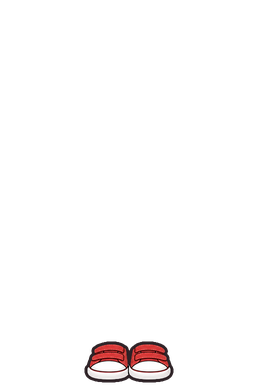
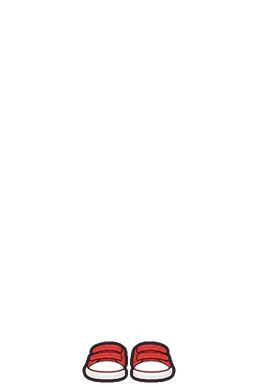
아바타: 눈 흰자 하얗게 (감은 눈·점 눈 빼고), 신발 두 짝 사이 띄우고 바깥으로 넓혀 종아리 가림 / 학생 과제·교사 일지 백업도 점선 파일 상자
Claude-Session: https://claude.ai/code/session_015VxnKS3baGbwJXJNNp74ix

Changed region(s): [[0.3101, 0.8705, 0.6822, 0.9948]]

diff --git a/journal.html b/journal.html
@@ -37,6 +37,11 @@
   header .dday .dd-note { font-size: 11px; color: #b5aaa0; }
   header .dday:hover .dd { box-shadow: inset 0 0 0 1.5px var(--accent); } header .dday:empty::after, header .dday .dd-empty { padding: 4px 10px; }
   header .today { margin-left: 8px; padding-left: 12px; border-left: 1px solid var(--line); font-size: 13px; }
+  /* 파일 넣는 칸: 점선 상자 + 구름 화살표 (끌어다 놓아도 된다는 표시) */
+  .dz { display: flex; flex-direction: column; align-items: center; gap: 4px; width: 100%; box-sizing: border-box; padding: 18px 16px; border: 2px dashed #c9c2b8 !important; border-radius: 14px !important; background: #fcfaf7 !important; font: inherit; color: #333; cursor: pointer; }
+  .dz:hover, .dz.drop-on, .drop-on > .dz { border-color: #3b82f6 !important; background: #f0f6ff !important; } .dz svg { width: 36px; height: 36px; fill: none; stroke: currentColor; stroke-width: 1.6; stroke-linecap: round; stroke-linejoin: round; }
+  .dz b { font-weight: 500; font-size: 15px; } .dz u { color: #2f6fd6; text-decoration: none; font-weight: 600; font-size: 15px; } .dz small { color: #868e96; font-size: 12px; }
+  .dzw { margin-top: 8px; }
   .ddl { display: grid; gap: 6px; } .ddl .row { display: flex; gap: 6px; align-items: center; } .ddl .row > * { min-width: 0; } .ddl .row .dbox { flex: none; width: 140px; } .ddl .dtext.bad { border-color: #e03131; color: #e03131; }
   .pop .tip { margin: 0 0 4px; font-size: 12px; color: var(--muted); line-height: 1.5; } .ddl .grow { flex: 1; width: 0; } .ddl .row .x { flex: none; }
   header .jset { border: 0; background: none; padding: 5px; border-radius: 8px; color: var(--muted); display: grid; place-items: center; margin-left: 4px; } header .jset:hover { background: var(--soft); color: var(--accent); }
@@ -342,6 +347,7 @@ function load() {
   try { const old = JSON.parse(localStorage.getItem("local-journal")); if (old) { J.info = { ...old.info, ...J.info }; J.att = { ...old.att, ...J.att }; localStorage.setItem("journal", JSON.stringify(J)); localStorage.removeItem("local-journal"); } } catch (e) {} // 예전: 이 컴퓨터에만 두던 학생 정보·출결 → 일지로
   J.recs.forEach(r => { if (!r.ps) { r.ps = r.p ? [r.p] : []; delete r.p; } }); // 예전: 학생 한 명
 }
+function dzBtn(go, kinds) { const b = el("button", { type: "button", class: "dz", onclick: go }, el("b", {}, "여기로 파일을 끌어다 놓거나"), el("u", {}, "눌러서 파일 고르기"), el("small", {}, kinds)); b.insertAdjacentHTML("afterbegin", '<svg viewBox="0 0 24 24" aria-hidden="true"><path d="M7 18a4.5 4.5 0 0 1-.6-9A6 6 0 0 1 18 8a4.5 4.5 0 0 1-.5 10"/><path d="M12 20v-9M8.5 14 12 10.5l3.5 3.5"/></svg>'); return b; } // 파일 넣는 점선 상자
 function store() { try { localStorage.setItem("journal", JSON.stringify(J)); localStorage.setItem("sync-dirty", "1"); } catch (e) { ask("저장할 자리가 모자라요.", "확인", null); } }
 const uid = () => Date.now().toString(36) + Math.random().toString(36).slice(2, 6);
 function ask(text, ok = "확인", cancel = "취소", near = null) { // 창 안 팝업. near(누른 버튼)가 있으면 그 옆에 작게
@@ -783,7 +789,7 @@ function jrSettings(anchor) {
       grp("상담 방법", words(ways, L => J.ways = L, "대면, 전화, 문자"))],
     doc: [grp("출결 필요 서류", el("p", { class: "tip" }, "출결을 적을 때 종류 + 분류에 맞는 서류가 '필요'로 채워져요. 서류는 쉼표(,)로 나눠요. 비워 두면 필요 서류 없음."), docRules)],
     bak: [grp("백업", el("p", { class: "tip" }, "일지 전체를 파일로 내보내 보관하거나 다른 컴퓨터에서 불러와요. 읽거나 인쇄하려면 각 탭의 '출력'에서 PDF로 저장해요."),
-      el("div", { class: "row" }, el("button", { type: "button", onclick: backup }, "파일로 내보내기"), el("button", { type: "button", onclick: () => file.click() }, "파일에서 불러오기"), file))],
+      el("div", { class: "row" }, el("button", { type: "button", onclick: backup }, "파일로 내보내기")), el("div", { class: "dzw" }, dzBtn(() => file.click(), "교사 일지 백업 파일 (.json)"), file))],
   };
   const body = el("div", { class: "spane" }), tabs = el("div", { class: "stabs" });
   const show = k => { setTab = k; tabs.querySelectorAll("button").forEach(x => x.classList.toggle("on", x.dataset.k === k)); body.replaceChildren(...panes[k]); };

diff --git a/student.html b/student.html
@@ -76,6 +76,10 @@
   .tp .r small { color: var(--muted); font-size: 13px; } .tp .r .t { color: #1971c2; } .tp .r .t::before { content: "선생님의 한마디 "; font-weight: 700; } .tp .r .my { overflow: hidden; display: -webkit-box; -webkit-line-clamp: 2; -webkit-box-orient: vertical; } /* 긴 글은 두 줄까지만 (누르면 다 보임) */
   .tp > button.main { justify-self: end; font-size: 19px; } .tp .none { margin: 0; color: var(--muted); } .tp .q { margin: 0; font-size: 22px; font-weight: 700; line-height: 1.4; } .tp .q + .when { margin-top: -6px; }
   .spark { width: 1.45em; height: 1.45em; vertical-align: -.3em; margin-right: 3px; fill: #ffd60a; stroke: #222; stroke-width: 1.4; stroke-linejoin: round; overflow: visible; } /* 꾸미기: 노란 반짝이 */
+  /* 파일 넣는 칸: 점선 상자 + 구름 화살표 (끌어다 놓아도 된다는 표시) */
+  .dz { display: flex; flex-direction: column; align-items: center; gap: 4px; width: 100%; box-sizing: border-box; padding: 18px 16px; border: 2px dashed #c9c2b8 !important; border-radius: 14px !important; background: #fcfaf7 !important; font: inherit; color: #333; cursor: pointer; }
+  .dz:hover, .dz.drop-on, .drop-on > .dz { border-color: #3b82f6 !important; background: #f0f6ff !important; } .dz svg { width: 36px; height: 36px; fill: none; stroke: currentColor; stroke-width: 1.6; stroke-linecap: round; stroke-linejoin: round; }
+  .dz b { font-weight: 500; font-size: 15px; } .dz u { color: #2f6fd6; text-decoration: none; font-weight: 600; font-size: 15px; } .dz small { color: #868e96; font-size: 12px; }
   .nb { background: #2f4a3a; color: #f8f9f0; border: 6px solid #8a6a4a; border-radius: 16px; padding: 14px 20px 16px; margin-bottom: 16px; box-shadow: 0 2px 10px rgba(60, 40, 20, .1); }
   .nb b { display: block; font-size: 17px; color: #ffe066; } .nb-h { display: flex; align-items: center; gap: 6px; margin-bottom: 6px; }
   .nb-h button { background: none; border: 0; color: #ffe066; font-size: 14px; padding: 2px 6px; cursor: pointer; } .nb-h button:disabled { opacity: .25; cursor: default; } .nb-h #nb-next { margin-right: auto; } .nb a { color: #a5d8ff; } .nb #nb-l p { margin: 2px 0; font-size: 21px; line-height: 1.5; white-space: pre-wrap; word-break: break-word; }
@@ -298,7 +302,7 @@ function hwDraw() {
     const go = el("button", { class: "main", onclick: () => hwSend(x.id, go) }, sent(s) ? "고친 것 내기" : "선생님께 내기");
     me = [text, cnt, el("div", { class: "atts" }, ...dr.files.map((f, i) => el("div", { class: "th" }, isImg(f) ? el("img", { src: f.file, alt: "" }) : el("span", {}, "📄 " + (f.fname || "파일")),
         el("button", { class: "x", title: "빼기", "aria-label": "빼기", onclick: () => { dr.files.splice(i, 1); hwDraw(); } }, "✕"))),
-        el("button", { class: "add", onclick: () => file.click() }, "＋", el("small", {}, "사진·파일")), file),
+        ), el("div", {}, dzBtn(() => file.click(), "사진 · 한글 · PDF · 파일"), file),
       el("div", { class: "row" }, go, sent(s) ? el("button", { onclick: () => { hwDraft[x.id] = null; hwDraw(); } }, "취소") : null)];
   }
   // 선생님의 한마디: 선생님이 남긴 말이 쌓임 (학생은 읽기만)
@@ -352,6 +356,7 @@ function ntListen(l) {
 }
 // ───── 📋 알림장: 선생님 칠판 알림장 (classes/{반 코드}/notice/board = { day, lines }). 과제 화면 맨 위에
 let nbV = null, nbLog = {}, nbAt = null; // nbV: 오늘 칠판(notice/board), nbLog: 지난 알림장 { 날짜: [줄] } (notice/log), nbAt: 보고 있는 날짜 (null = 맨 최근)
+function dzBtn(go, kinds) { const b = el("button", { class: "dz", onclick: go }, el("b", {}, "여기로 파일을 끌어다 놓거나"), el("u", {}, "눌러서 파일 고르기"), el("small", {}, kinds)); b.insertAdjacentHTML("afterbegin", '<svg viewBox="0 0 24 24" aria-hidden="true"><path d="M7 18a4.5 4.5 0 0 1-.6-9A6 6 0 0 1 18 8a4.5 4.5 0 0 1-.5 10"/><path d="M12 20v-9M8.5 14 12 10.5l3.5 3.5"/></svg>'); return b; } // 파일 넣는 점선 상자
 function nbDraw() { // 오늘 알림장 (없으면 가장 최근 것). ◀ ▶로 지난 알림장
   const td = new Date().toLocaleDateString("sv-SE"), L = { ...nbLog, ...(nbV?.day === td && nbV.lines?.length ? { [td]: nbV.lines } : {}) };
   const days = Object.keys(L).filter(d => d <= td && L[d]?.length).sort(), i = days.includes(nbAt) ? days.indexOf(nbAt) : days.length - 1;

diff --git a/av/eyewhite.py b/av/eyewhite.py
@@ -1,0 +1,18 @@
+# 눈 흰자: 눈마다(왼·오) 가장 큰 덩어리(속눈썹+눈동자)를 볼록하게 감싼 안쪽 빈 곳을 흰색으로 (눈썹은 따로 떨어져 있어서 빠짐)
+import sys, numpy as np; from PIL import Image; from scipy import ndimage
+from scipy.spatial import ConvexHull; from PIL import ImageDraw
+def convex_hull_image(m):
+  ys, xs = np.nonzero(m); p = np.c_[xs, ys]; h = ConvexHull(p); c = Image.new('L', m.shape[::-1]); ImageDraw.Draw(c).polygon([tuple(map(int, p[i])) for i in h.vertices], fill=1); return np.array(c) > 0
+SRC = sys.argv[1] if len(sys.argv) > 1 else './'; OUT = sys.argv[2] if len(sys.argv) > 2 else './'
+for k in [k for k in range(16) if k not in (3, 5, 15)]:  # 감은 눈(^^)·점 눈은 흰자 없음
+  im = np.array(Image.open(f'{SRC}eye-{k}.png').convert('RGBA')).astype(float); a = im[..., 3] > 90
+  white = np.zeros(a.shape, bool)
+  for half in (slice(0, 129), slice(129, None)):
+    m = np.zeros_like(a); m[:, half] = a[:, half]
+    lab, n = ndimage.label(m)
+    if not n: continue
+    sz = ndimage.sum(m, lab, range(1, n + 1)); big = lab == 1 + int(np.argmax(sz))
+    white |= ndimage.binary_erosion(convex_hull_image(big), iterations=1)
+  al = im[..., 3:] / 255; w = white[..., None]
+  rgb = np.where(w, im[..., :3] * al + 255 * (1 - al), im[..., :3]); A = np.where(white, 255, im[..., 3])
+  Image.fromarray(np.dstack([rgb, A]).round().clip(0, 255).astype(np.uint8)).save(f'{OUT}eye-{k}.png', optimize=True)

diff --git a/av/shoegap.py b/av/shoegap.py
@@ -1,0 +1,13 @@
+# 신발 두 짝 사이를 띄움: 가운데(x=129)에서 갈라 안쪽을 2px 깎고 양쪽으로 2px씩 벌린 뒤, 짝마다 테두리를 다시 그림 (outline.py)
+import sys, numpy as np; from PIL import Image; from outline import uniform
+CUT, TRIM, MOVE = 129, 2, 2
+for k in range(1, 9):
+  f = f'shoes-{k}.png'; im = np.array(Image.open(f).convert('RGBA').resize((516, 772), Image.LANCZOS)).astype(float)
+  H, W = im.shape[:2]; out = np.zeros_like(im); xs = np.arange(W)
+  for side in (-1, 1):
+    keep = xs < (CUT - TRIM) * 2 if side < 0 else xs >= (CUT + TRIM) * 2
+    a = (im[..., 3] > 128) & keep[None, :]
+    a = np.roll(a, side * MOVE * 2, 1); rgb = np.roll(im[..., :3], side * MOVE * 2, 1)
+    col, al = uniform(a, rgb, 2)
+    m = al[..., None]; out[..., :3] = out[..., :3] * (1 - m) + col * m; out[..., 3] = np.maximum(out[..., 3], al * 255)
+  Image.fromarray(out.round().clip(0, 255).astype(np.uint8)).resize((258, 386), Image.LANCZOS).save(f, optimize=True)
